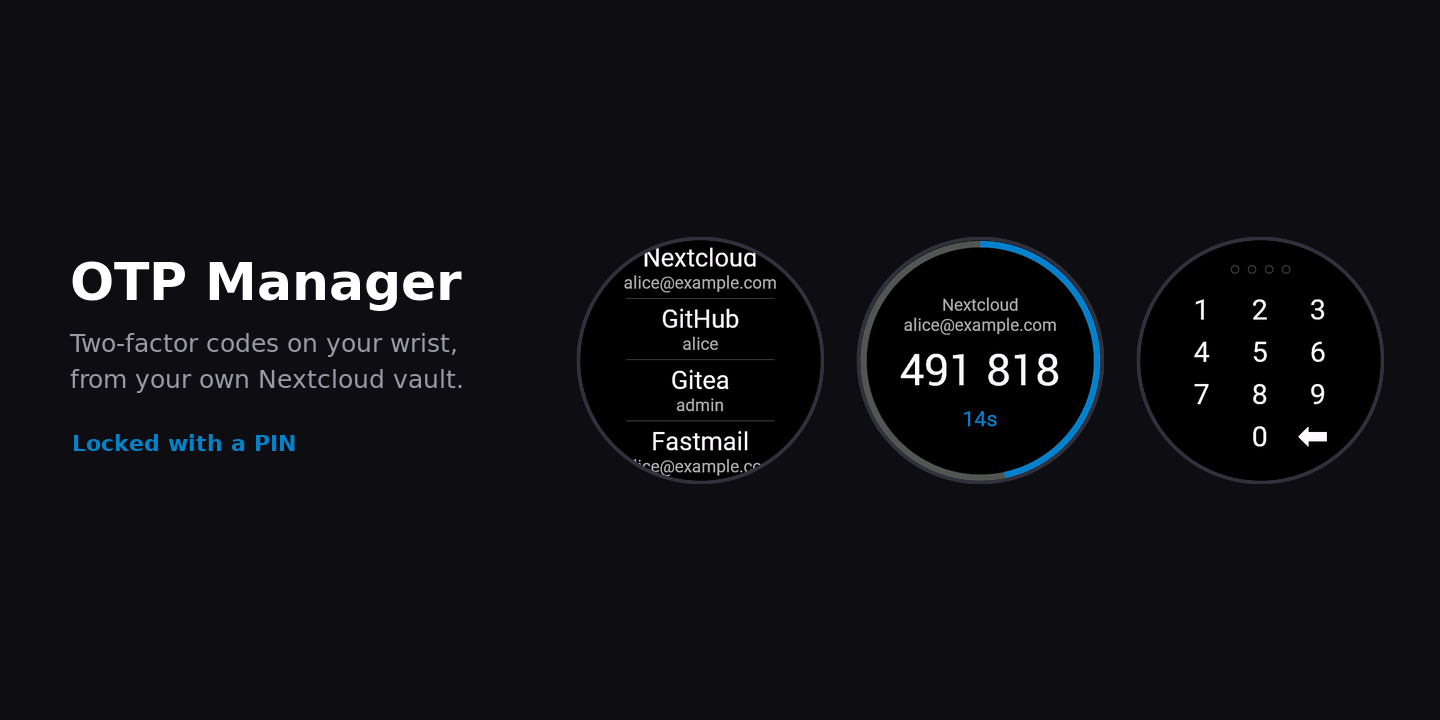
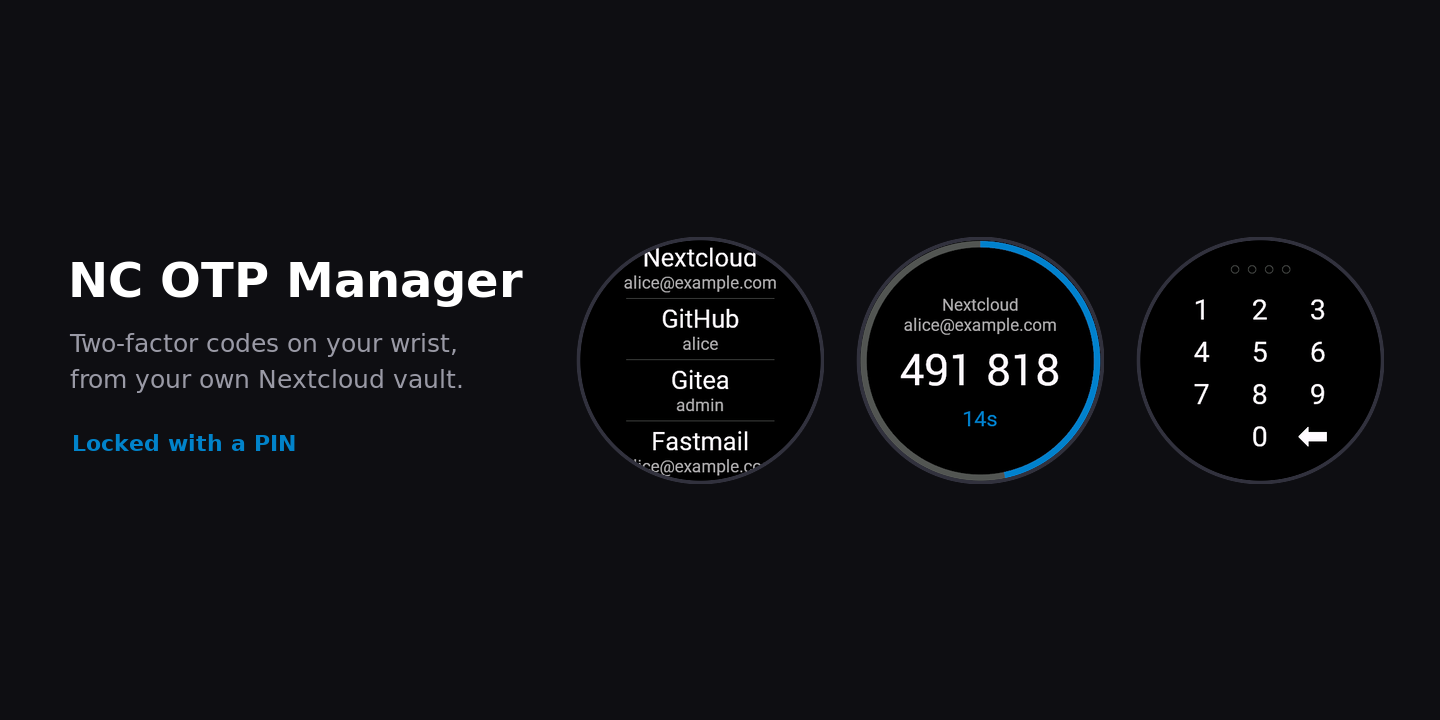
Name the app NC OTP Manager, and publish a privacy notice
The launcher name, the README title and the hero's headline. Every other
mention of OTP Manager in the tree names the upstream Nextcloud app this one
talks to, which is what those sentences are for.

The hero's headline is redrawn at 48pt rather than the 52pt it was calibrated
to: the longer string at the old size left eleven pixels between it and the
watch graphics.

PRIVACY.md is what the review guidelines ask for and Garmin's own policy
explicitly does not cover. It says where each credential goes, that the vault
password is posted to the server on every refresh, and that the two values
entered on the settings screen pass through Garmin's infrastructure on their
way to the watch — which is a property of the platform that the app cannot opt
out of, and belongs in a privacy notice rather than nowhere.

Changed region(s): [[0.0312, 0.3667, 0.375, 0.4278]]

diff --git a/PRIVACY.md b/PRIVACY.md
@@ -1,0 +1,59 @@
+# Privacy
+
+NC OTP Manager is a client for a Nextcloud server that you run and control. It
+has no backend of its own.
+
+**Nothing is sent to the developer, and nothing is sent to any third party.**
+There is no analytics, no telemetry, no crash reporting and no advertising.
+
+## What the app sends, and where
+
+Every network request goes to the Nextcloud server whose address you enter in
+the app's settings, and to no other host. The app refuses any address that is
+not HTTPS.
+
+| Sent | To | When |
+|---|---|---|
+| Your Nextcloud login name and app password | your server | with every request, as HTTP Basic authentication |
+| Your OTP Manager vault password | your server | on each refresh, to `/password/check`, so the server can verify it against the hash it stores and return the decryption IV |
+| A login token | your server | while signing in |
+
+Your account secrets are decrypted on the watch. The key is derived from your
+vault password and is never transmitted.
+
+Signing in opens your server's own login page on your phone, through the Garmin
+Connect app. The watch is issued its own Nextcloud app password and never asks
+you to type your account password.
+
+## What the app stores on the watch
+
+- Your Nextcloud login name and app password.
+- Your vault password.
+- The account list from your last successful refresh, so the app opens without
+  your phone in range.
+
+If you set a PIN, the two passwords are encrypted under it, and so is the
+cached account list when your vault has no password of its own. Connect IQ
+provides no encrypted storage of its own, so without a PIN these are held as
+they are — as they are in any Connect IQ app that needs a credential.
+
+**Sign out** clears all of it, and so does deleting the app. Signing out does
+not revoke the app password at the server: do that in Nextcloud under Settings,
+Security, Devices & sessions.
+
+## What passes through Garmin
+
+Two values are entered on the app's settings screen rather than on the watch:
+your server address and your vault password. Connect IQ settings are delivered
+to the watch through Garmin's infrastructure, so those two pass through it, and
+Garmin's own privacy policy governs that leg. This is a property of the
+platform's settings mechanism and not something the app can opt out of.
+
+Your login name and app password are **not** among them. They are returned by
+your own server during sign-in and written straight to watch-local storage,
+which does not sync anywhere.
+
+## Contact
+
+Questions, or a privacy problem to report: open an issue at
+<https://github.com/megamaced/otpmanager-garmin/issues>.

diff --git a/README.md b/README.md
@@ -1,4 +1,4 @@
-# OTP Manager for Garmin
+# NC OTP Manager
 
 A Connect IQ watch app that reads your
 [Nextcloud OTP Manager](https://github.com/matteo-convertino/otpmanager-nextcloud)
